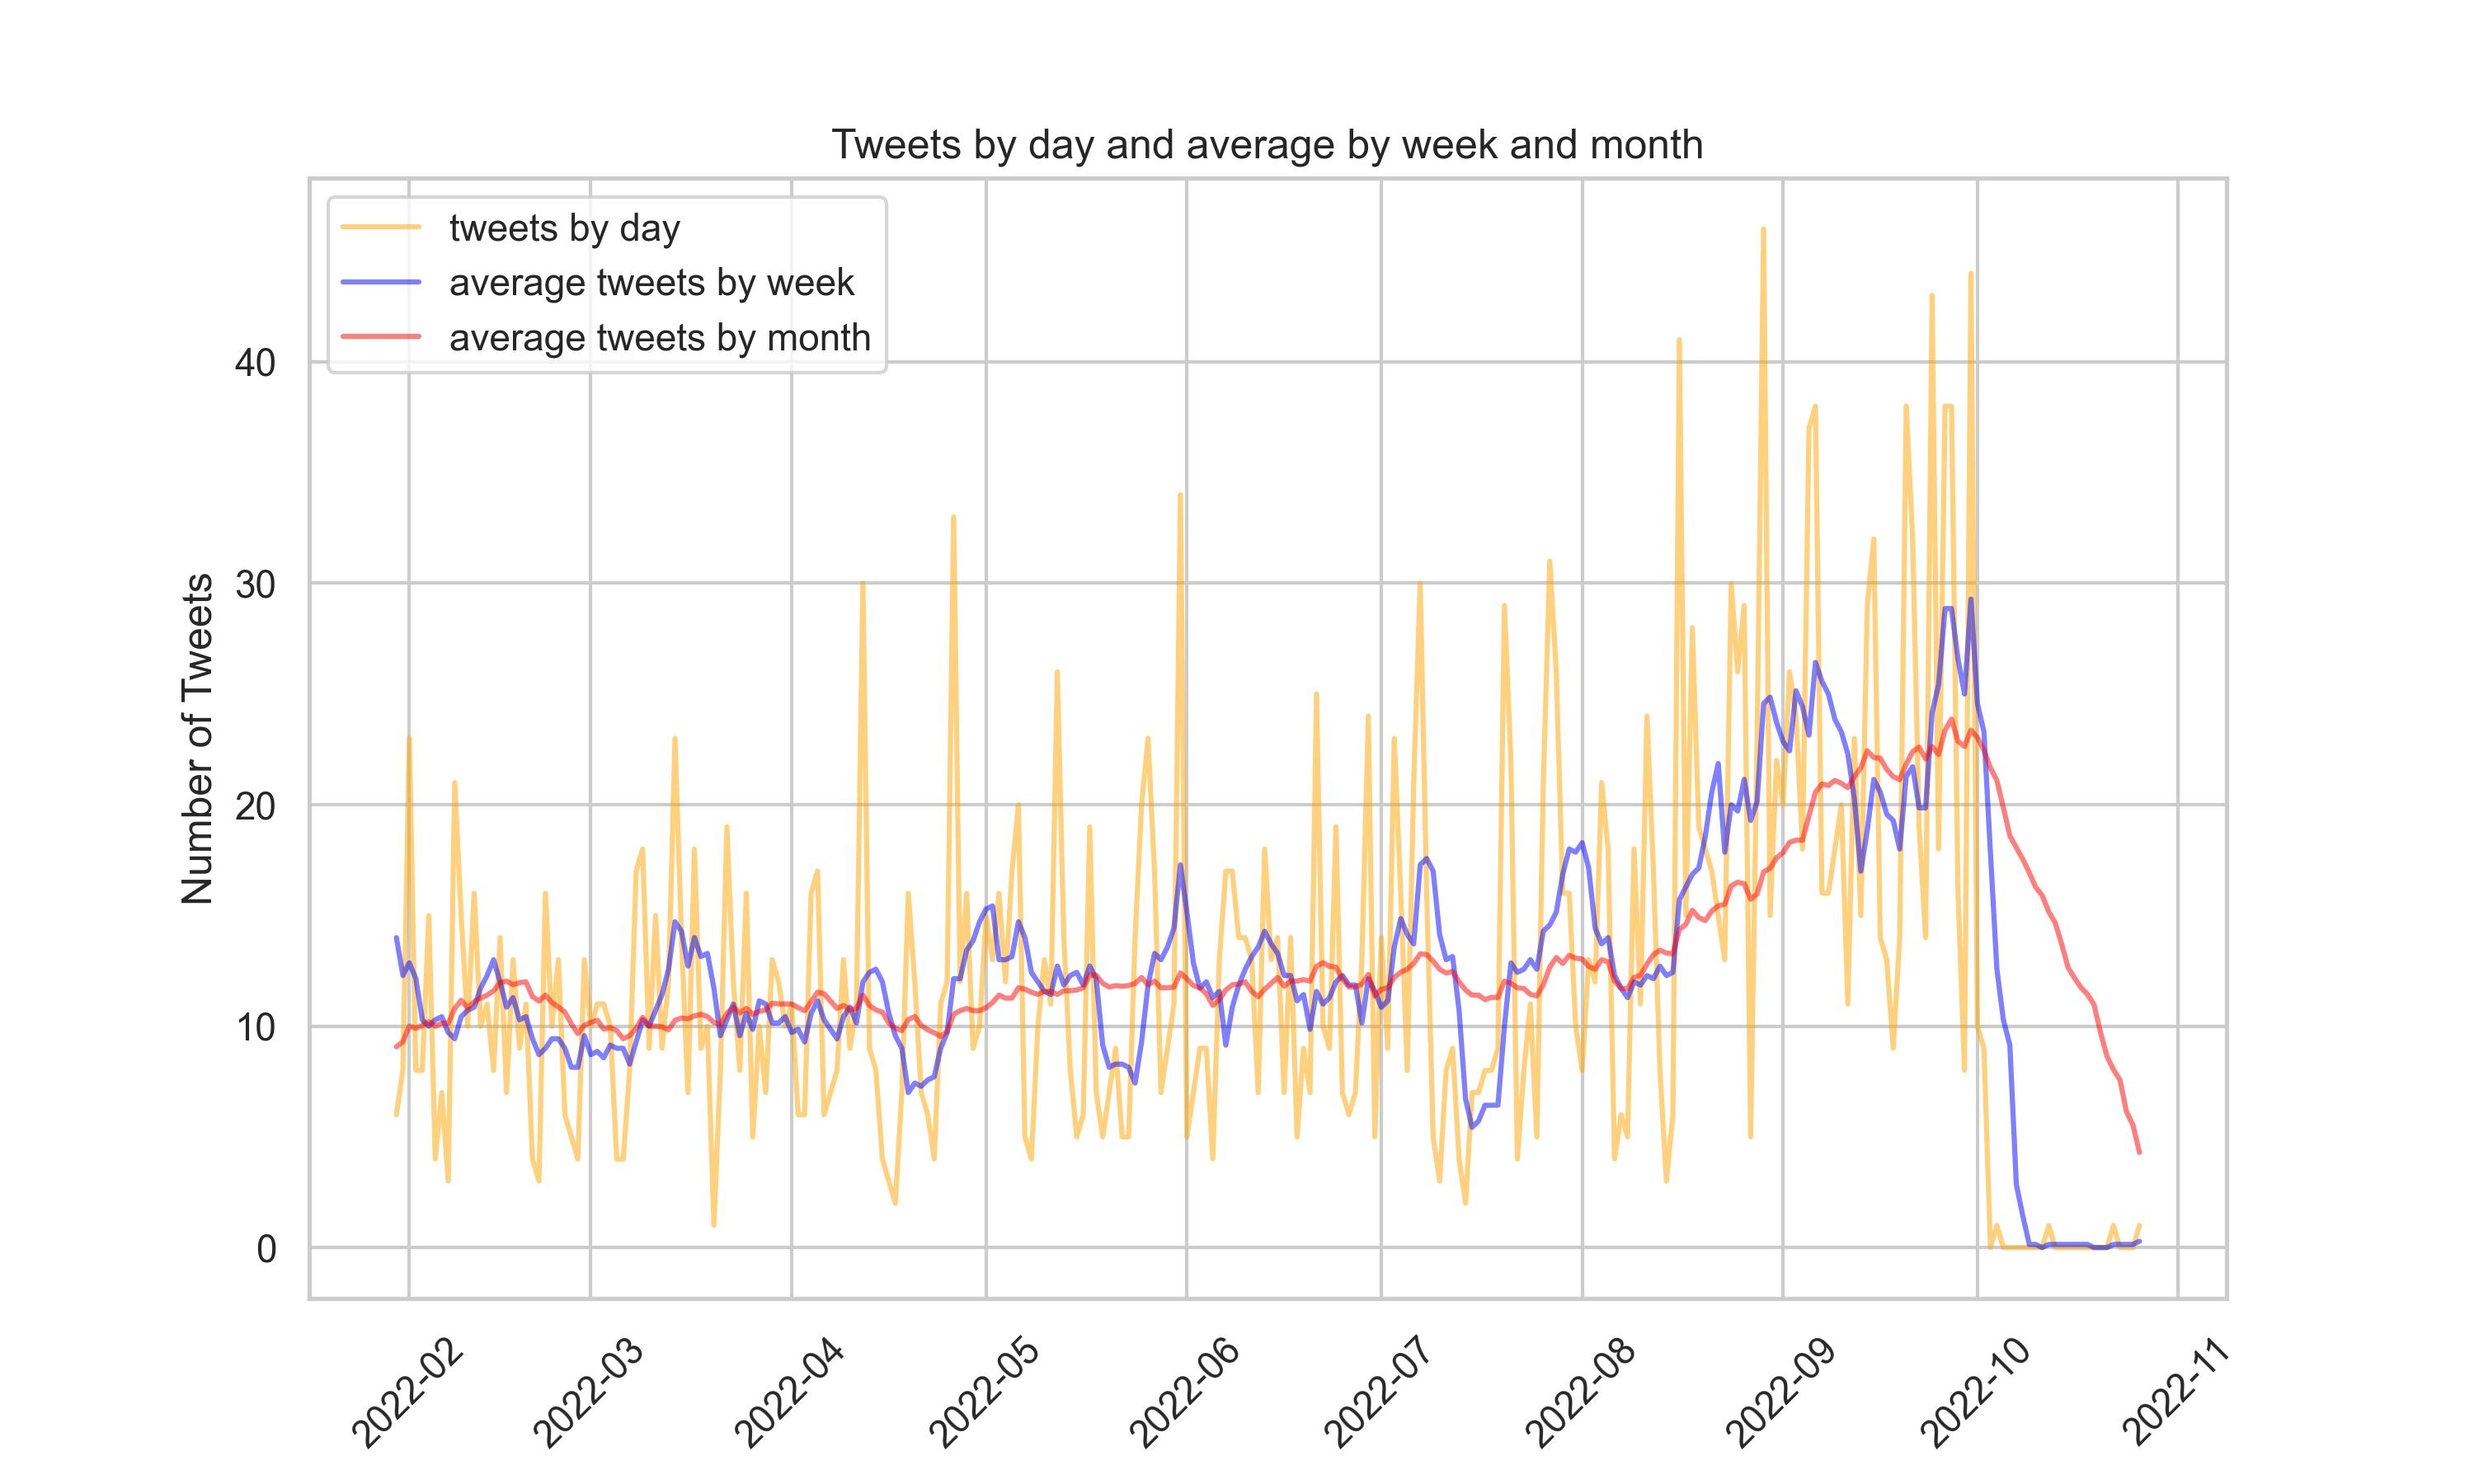
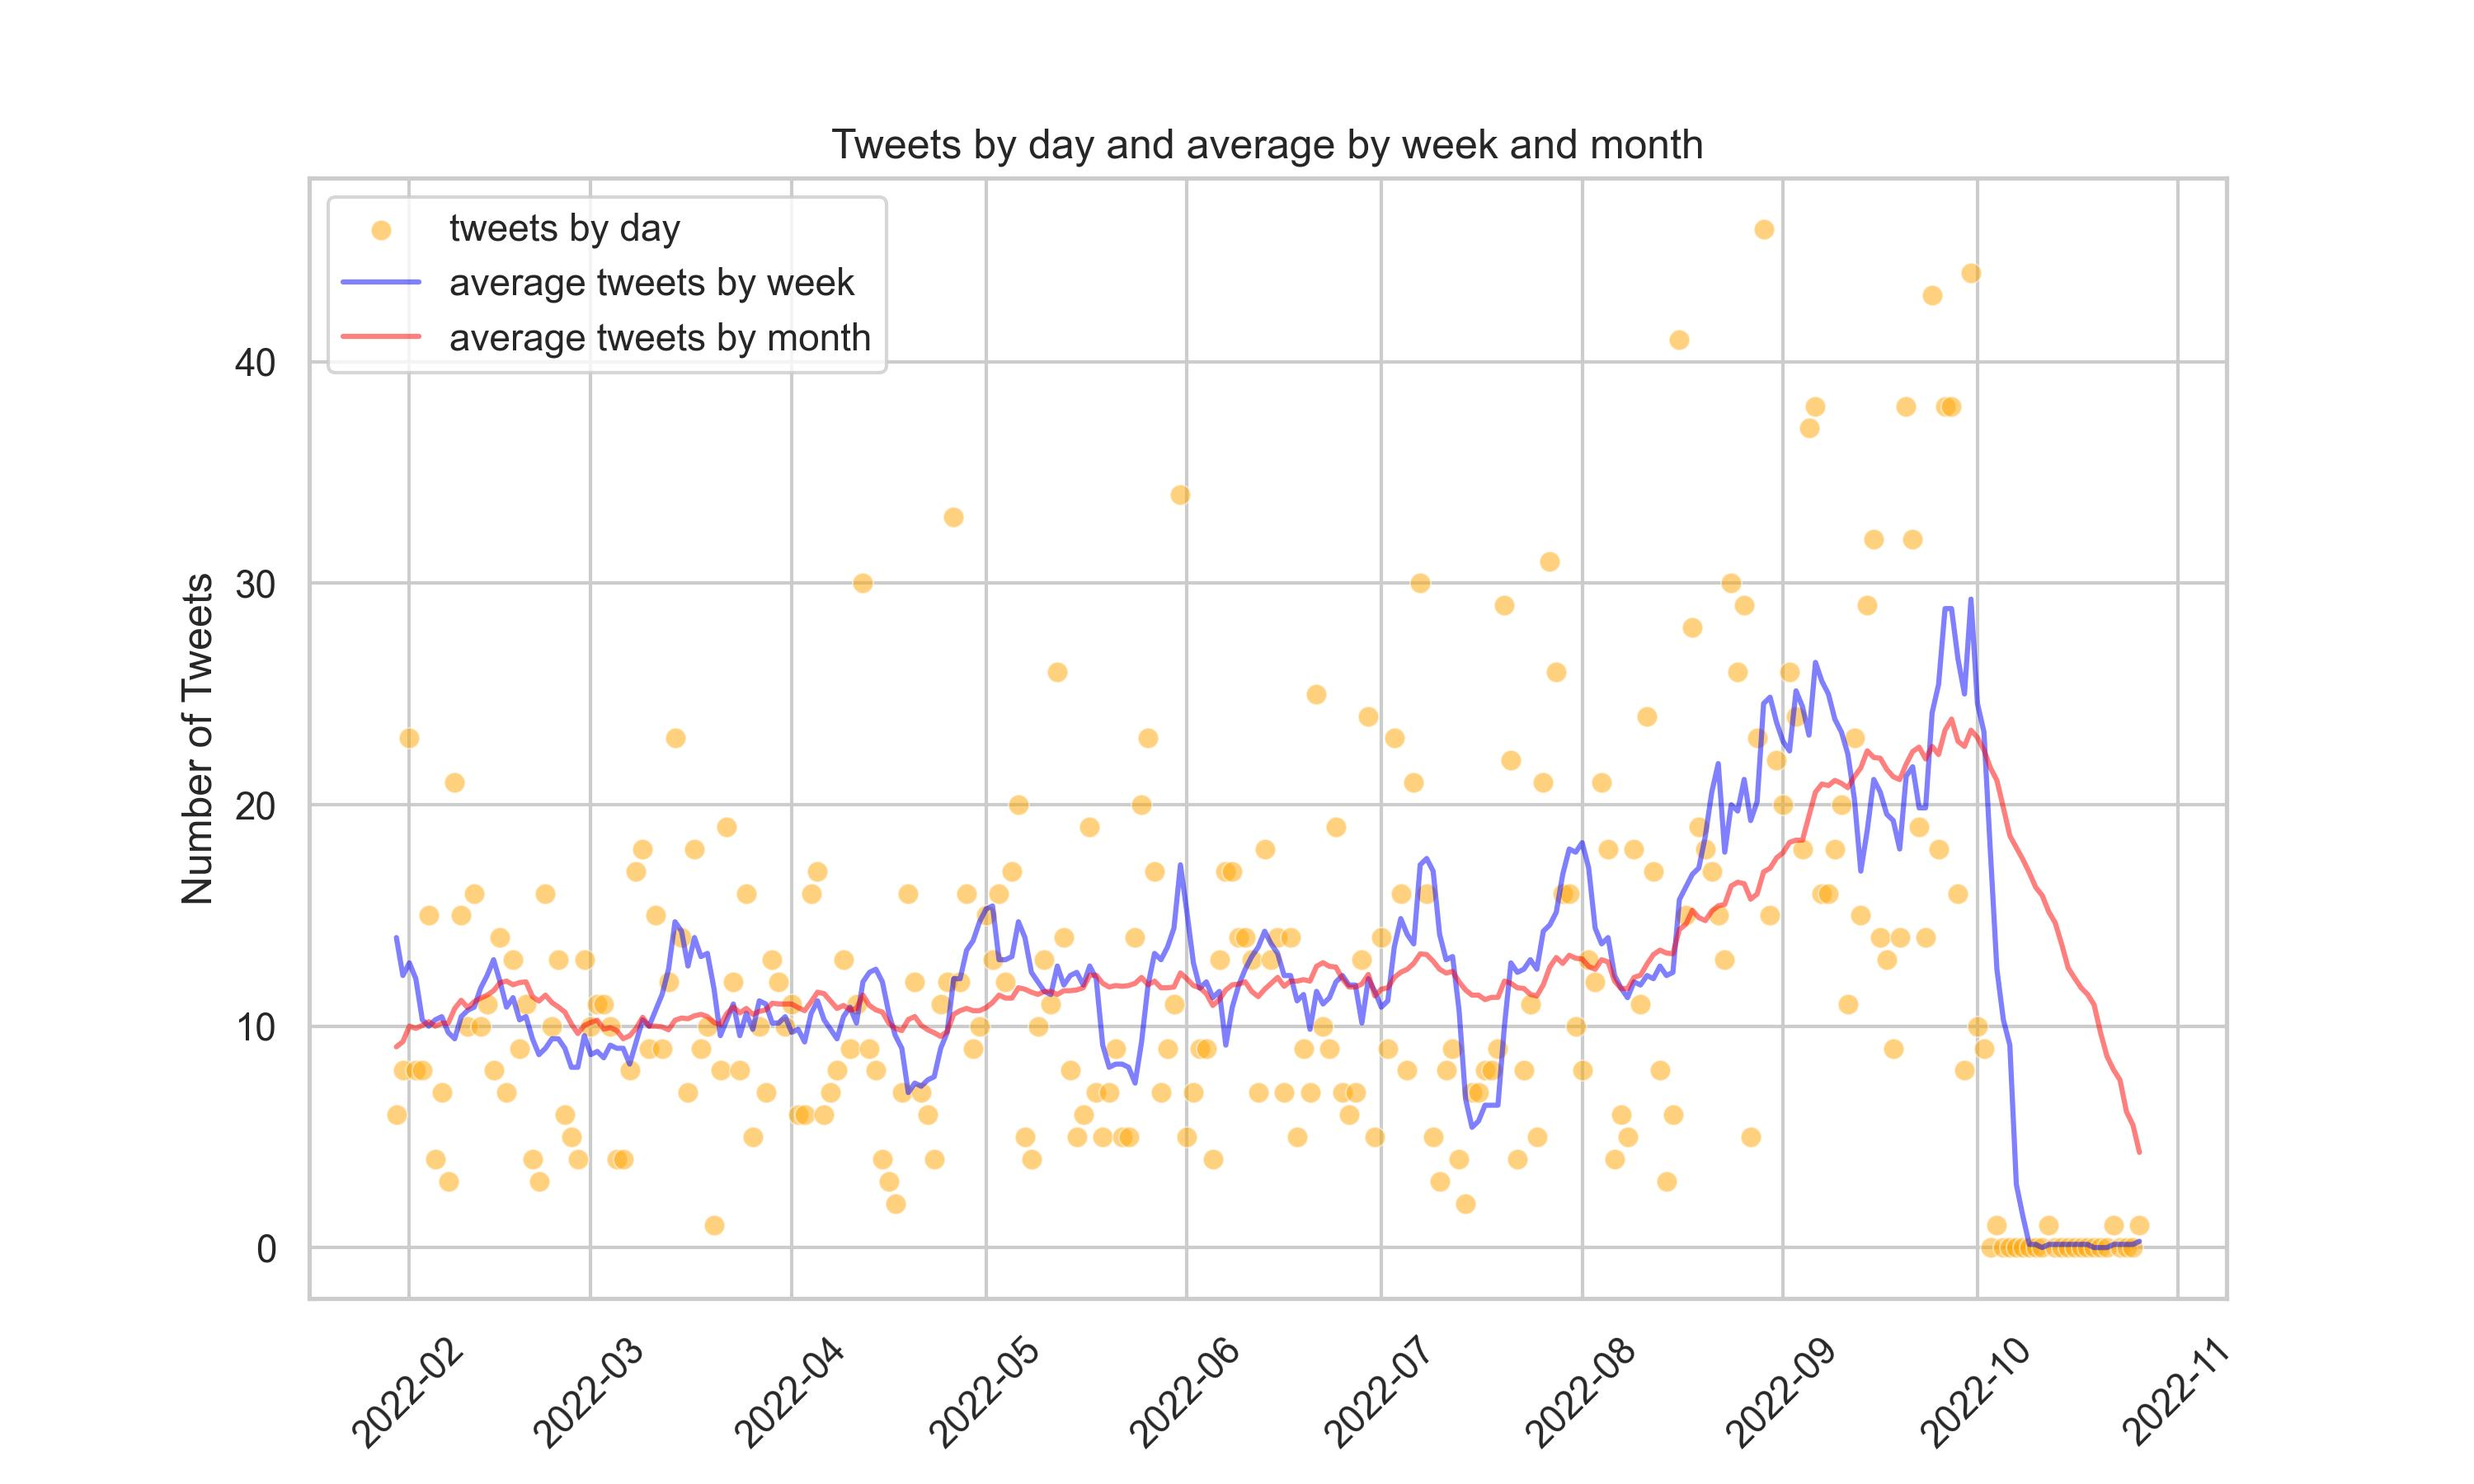
add median and mean

Changed region(s): [[0.155, 0.1867, 0.806, 0.84], [0.806, 0.8089, 0.868, 0.8711], [0.651, 0.2178, 0.682, 0.2489]]

diff --git a/twitter_analytics_-_ciro_gomes.py b/twitter_analytics_-_ciro_gomes.py
@@ -1,7 +1,6 @@
-# Ciro Analytics
+# Ciro Tweets Analytics
 
 # TO IMPROVE: separate responsibilities
-
 
 import pandas as pd
 import matplotlib.pyplot as plt
@@ -9,27 +8,79 @@ import matplotlib.dates as mdates
 import datetime
 import seaborn as sns
 
-
 df = pd.read_excel(r'df_tweets.xlsx')
 
+
+
+
+
+# ~~~~~~~~~~~~~~~~~~  GENERAL ADJUSTS  ~~~~~~~~~~~~~~~~~~
 df['n_tweet'] = 1
 
 df['date'] = pd.to_datetime(df['date'])
 
+start_date = '2022-01-01'
+end_date = '2022-09-30'
+
+df_without_october = df[df.date.between(start_date, end_date)]
+
 tweets_by_day = df.resample('D', on='date')['n_tweet'].sum().to_frame()
+tweets_by_day_without_october = df_without_october.resample('D', on='date')['n_tweet'].sum().to_frame()
+
+
+
+
+
+# ~~~~~~~~~~~~~~~~~~  DISTRIBUTION and CENTER MEASURES  ~~~~~~~~~~~~~~~~~~
+tweets_by_day_aggregated = tweets_by_day_without_october.groupby('n_tweet',
+                                                 as_index=False).value_counts()
+
+mean = tweets_by_day_aggregated['count'].mean()
+
+val1 = tweets_by_day_aggregated[tweets_by_day_aggregated['n_tweet'] > tweets_by_day_aggregated['n_tweet'].median()].iloc[0]
+val2 = tweets_by_day_aggregated[tweets_by_day_aggregated['n_tweet'] < tweets_by_day_aggregated['n_tweet'].median()].iloc[-1]
+
+palette = ['red' if val in [val1['n_tweet'], val2['n_tweet']] 
+           else 'orange'
+           for val in tweets_by_day_aggregated['n_tweet']]
+
+
+# TO IMPROVE: add mode
+plot = sns.barplot(data=tweets_by_day_aggregated,
+            x='n_tweet',
+            y='count',
+            palette=palette,
+            alpha=.5)
+
+plot.axhline(mean, color='grey')
+plot.set(title='Median as red columns and Mean as the line')
+plt.ylabel("Number of times Tweets per day")
+plt.xlabel("Number of Tweets by Day")
+# agregar por quantidade de postagem
+# agregar pela quantidade de likes
+# agregar pela quantidade de retweets
+# agregar pela quantidade de comentários
+
+plt.savefig("saved_charts/twitter_analytic_ciro_gomes_mean_median_mode.jpg",
+            dpi=300)
+
+
+
+
+
+# ~~~~~~~~~~~~~~~~~~  TWEETS BY DAY AND AVERAGE BY WEEK AND MONTH  ~~~~~~~~~~~~~~~~~~
+# TO IMPROVE: CHANGE 'tweets by day' TO SCATTER PLOT
+# TO IMPROVE: PLOT FROM DIFFERENT COLUMNS
+# TO IMPROVE: SET MARGIN TO TITLE (BOTTOM) AND Y LABEL (RIGHT)
 
 tweets_by_day['by_week'] = tweets_by_day['n_tweet'].rolling(7).mean()
 
 tweets_by_day['by_month'] = tweets_by_day['n_tweet'].rolling(30).mean()
 tweets_by_day = tweets_by_day.dropna()
 
-
-
-# TO IMPROVE: PLOT FROM DIFFERENT COLUMNS
-# TO IMPROVE: SET MARGIN TO TITLE (BOTTOM) AND Y LABEL (RIGHT)
 plt.figure(figsize=(10, 6))
 with sns.axes_style("whitegrid"):
-    sns.lineplot(
+    sns.scatterplot(
         data=tweets_by_day,
         x= 'date',
         y= 'n_tweet',
@@ -60,7 +111,6 @@ plt.xticks(rotation=45)
 plt.ylabel("Number of Tweets")
 plt.xlabel("")
 
-# SAVE PLOT
 plt.savefig("saved_charts/twitter_analytic_ciro_gomes_tweets_by_day.jpg",
             dpi=300)
 
@@ -68,14 +118,9 @@ plt.savefig("saved_charts/twitter_analytic_ciro_gomes_tweets_by_day.jpg",
 
 
 
-
-
-
-
+# ~~~~~~~~~~~~~~~~~~  ENGAGEMENT BY QUOTE  ~~~~~~~~~~~~~~~~~~
 # convert tweet to lower case
 df['tweet'] = df['tweet'].str.lower()
-
-
 
 column_names = ["date", "user", "tweet", "hashtags", 
                 "retweets", "replys", "likes", "quotes"]
@@ -110,7 +155,9 @@ df_candidates = pd.concat([df_both_candidates,
           df_ciro],
           ignore_index=True)
 
-    
+
+# TO IMPROVE: DETECT OUTLIER AND CUT IT
+# TO IMPROVE: SET LINE WITH THE AVERAGE BY WEEK
 def to_plot(df, ylimit, title):
     
     # TO IMPROVE: change x and y varaibles structure
@@ -152,15 +199,12 @@ def to_plot(df, ylimit, title):
             ax.xaxis.set_major_formatter(mdates.DateFormatter('%b'))
             ax.xaxis.set_major_locator(mdates.MonthLocator(interval=2))
     
-    plt.figure(figsize=(10, 6))
     plt.setp(axs, ylim=(0, ylimit))
     plt.tight_layout()
         
 
 
-
-
-# GENERAL PLOT
+# ~~~~~~~~ ENGAGEMENT GENERAL PLOT
 ylimit = 50000
 title = 'Likes by mentions'
 to_plot(df, ylimit, title)
@@ -170,9 +214,7 @@ plt.savefig("saved_charts/twitter_analytic_ciro_gomes_likes_by_mentions_with_out
         
 
 
-
-
-# WITHOUT OUTLIER
+# ~~~~~~~~ ENGAGEMENT WITHOUT OUTLIER
 df_withoutlier = df.loc[df['likes'] < 40000]
 
 ylimit = 32000
@@ -185,8 +227,7 @@ plt.savefig("saved_charts/twitter_analytic_ciro_gomes_likes_by_mentions.jpg",
 
 
 
-# here here here here ??????????????????????w
-# ONLY OCTOBER
+# ~~~~~~~~ ENGAGEMENT ONLY OCTOBER
 start_date = "2022-09-01"
 end_date = "2022-10-03"
 
@@ -206,7 +247,7 @@ plt.savefig("saved_charts/twitter_analytic_ciro_gomes_likes_by_mentions_october.
 
 
 
-# DONUT PLOT
+# ~~~~~~~~~~~~~~~~~~  QUOTE BY ADVERSARY  ~~~~~~~~~~~~~~~~~~
 
 # TO IMPROVE: select colors by dataframe values
 # TO IMPROVE: set labels by dataframe values
